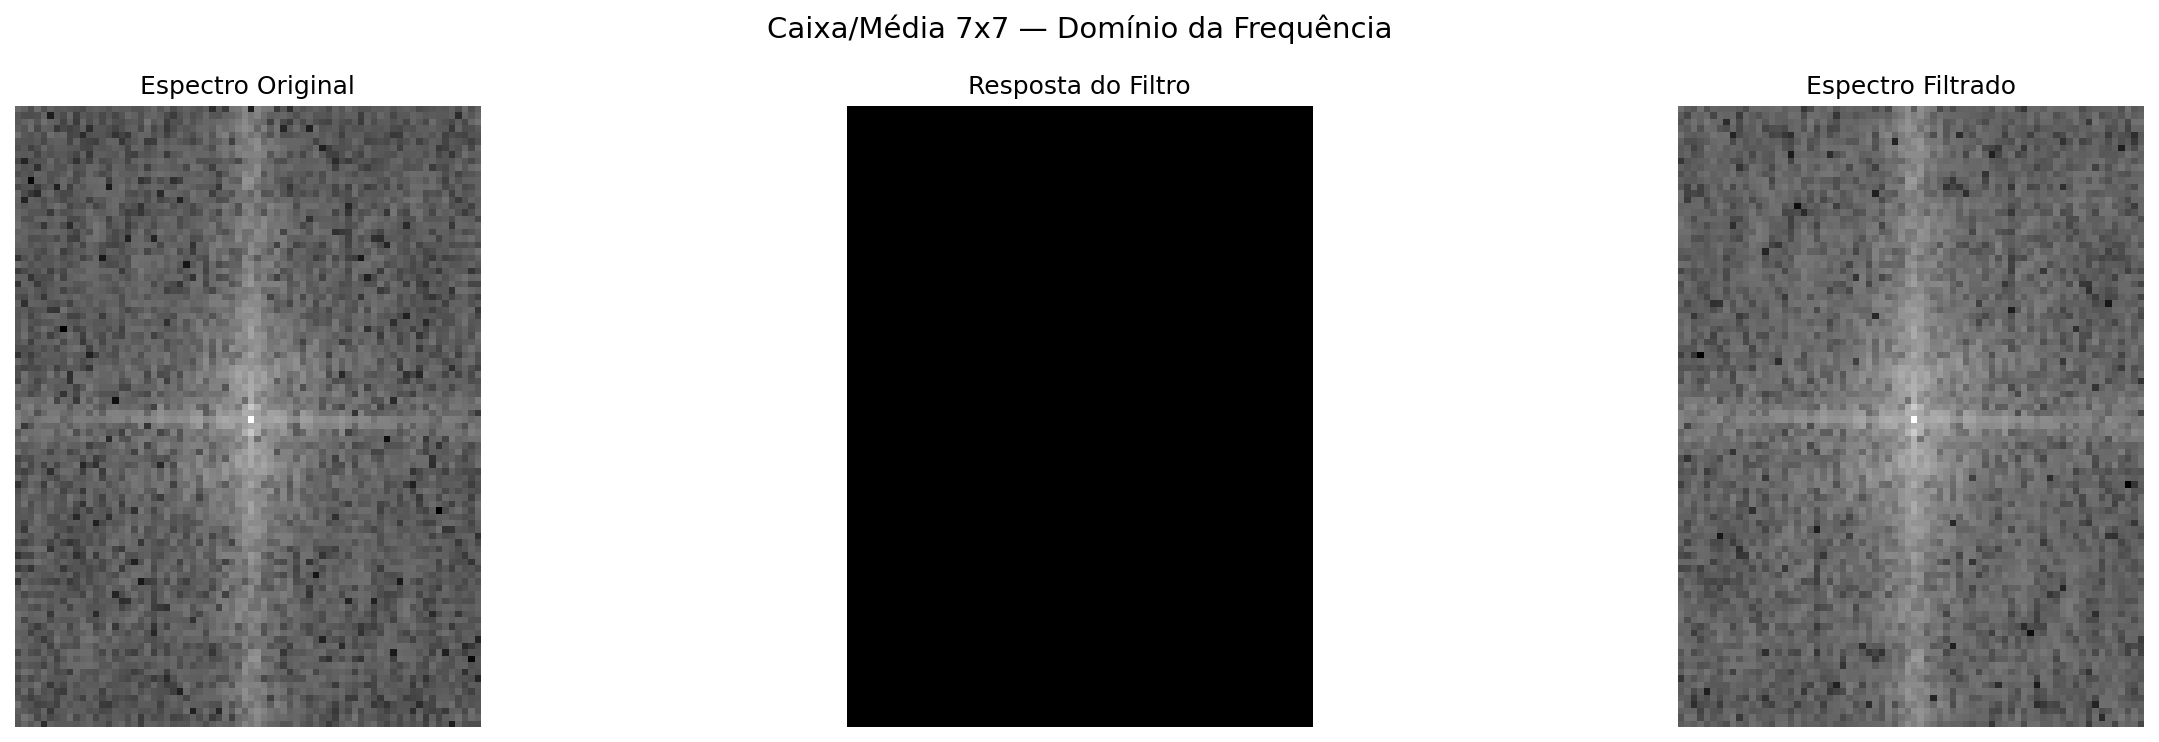
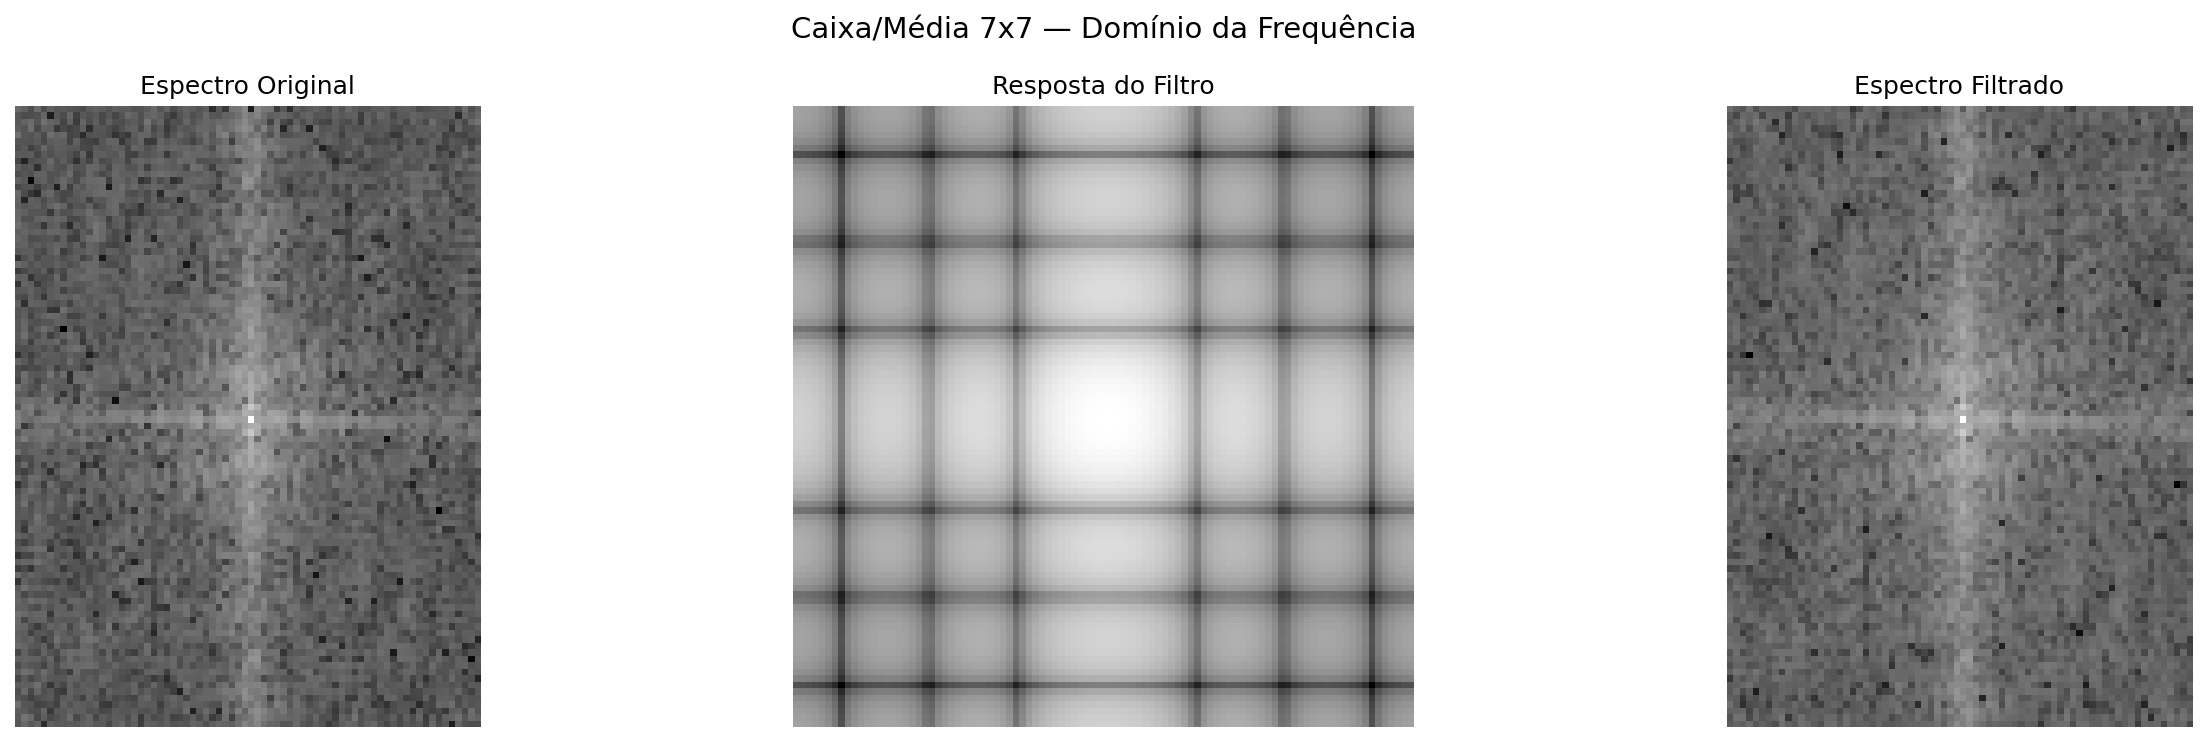
Trying to fix why the images are not changing

diff --git a/trabalho3/trabalho3.py b/trabalho3/trabalho3.py
@@ -236,13 +236,31 @@ def sharpen_unsharp(img, size=5, sigma=2.0, alpha=1.5, padding_mode='reflect'):
 def filter_frequency_response(kernel, img_shape):
     """
     Calcula a resposta em frequência de um kernel espacial.
-    Faz padding do kernel para o tamanho da imagem e aplica DFT manual (matricial).
-    Para viabilidade, limita o cálculo a um tamanho máximo (amostragem) se necessário.
+    Faz padding do kernel e aplica DFT manual (matricial).
+
+    Importante: não fazemos downsample do kernel após colocá-lo em um canvas do
+    tamanho da imagem, pois a amostragem pode "pular" o suporte do kernel e
+    zerá-lo (ex.: shift 11x11 com 1 em [10,10]). Em vez disso, calculamos a
+    resposta em frequência em um canvas pequeno (DFT_MAX_SIZE) e colocamos o
+    kernel centralizado nele.
     """
-    padded = np.zeros(img_shape, dtype=float)
     kh, kw = kernel.shape
-    padded[:kh, :kw] = kernel
-    padded_small = downsample_for_dft(padded, max_size=DFT_MAX_SIZE)
+    H, W = img_shape
+    Hc = min(DFT_MAX_SIZE, H)
+    Wc = min(DFT_MAX_SIZE, W)
+
+    padded_small = np.zeros((Hc, Wc), dtype=float)
+
+    # Coloca o kernel centralizado no canvas pequeno.
+    # Se o kernel for maior que o canvas, recorta (situação improvável aqui).
+    kh_use = min(kh, Hc)
+    kw_use = min(kw, Wc)
+    k_crop = kernel[:kh_use, :kw_use]
+
+    top = (Hc - kh_use) // 2
+    left = (Wc - kw_use) // 2
+    padded_small[top:top + kh_use, left:left + kw_use] = k_crop
+
     F = fftshift2(dft2d(padded_small))
     return np.log2(np.abs(F) + 1e-6)
 
@@ -288,7 +306,15 @@ def demo_frequency(img, kernel, filter_name, save_prefix, mag_orig=None):
     # Espectro original
     if mag_orig is None:
         mag_orig, _ = compute_spectrum(img)
-    axes[0].imshow(mag_orig, cmap='gray')
+
+    # Espectro após filtragem
+    mag_result, _ = compute_spectrum(result)
+
+    # Usar a MESMA escala para os espectros antes/depois, para a diferença ficar visível
+    vmin = min(float(mag_orig.min()), float(mag_result.min()))
+    vmax = max(float(mag_orig.max()), float(mag_result.max()))
+
+    axes[0].imshow(mag_orig, cmap='gray', vmin=vmin, vmax=vmax)
     axes[0].set_title("Espectro Original")
     axes[0].axis('off')
 
@@ -298,9 +324,7 @@ def demo_frequency(img, kernel, filter_name, save_prefix, mag_orig=None):
     axes[1].set_title("Resposta do Filtro")
     axes[1].axis('off')
 
-    # Espectro após filtragem
-    mag_result, _ = compute_spectrum(result)
-    axes[2].imshow(mag_result, cmap='gray')
+    axes[2].imshow(mag_result, cmap='gray', vmin=vmin, vmax=vmax)
     axes[2].set_title("Espectro Filtrado")
     axes[2].axis('off')
 
